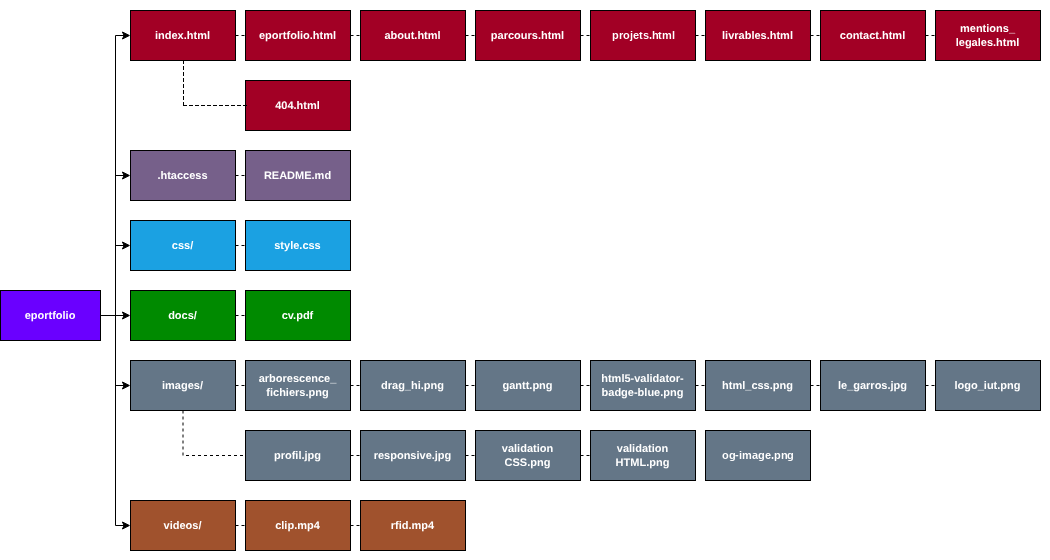
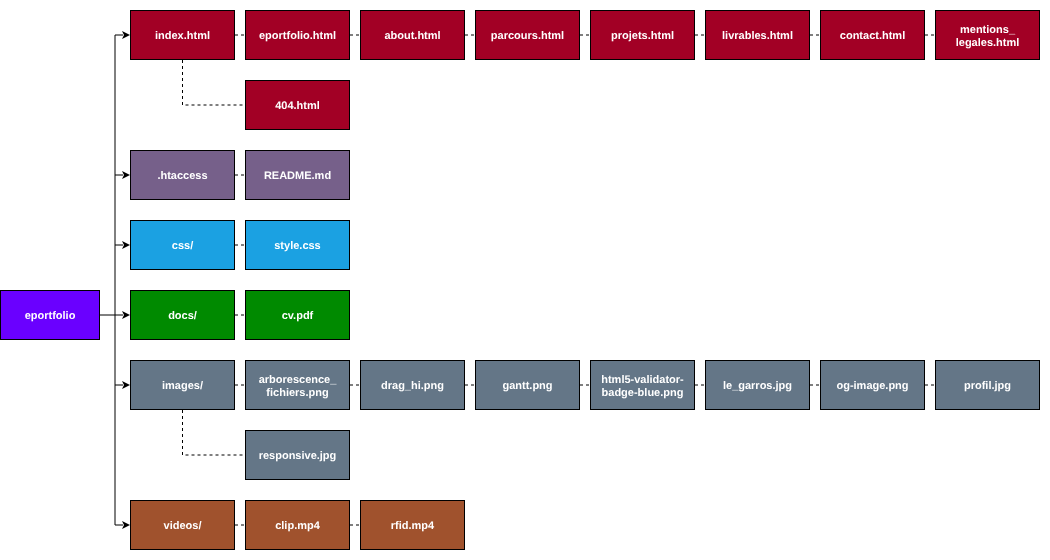
Capture responsive en PNG et retouches de mise en page
- livrables.html : responsive.jpg remplacé par responsive.png (361 x 655)
- Schéma de l'arborescence réexporté sans les images supprimées
- Titres de section sans barre rouge, sous-titres en rouge
- about.html : titre « Who Am I? » ; 404.html : titre simplifié

Claude-Session: https://claude.ai/code/session_011E3gSYhcNdHZCM68mX7pSx

diff --git a/livrables.html b/livrables.html
@@ -97,7 +97,7 @@ ePortfolio/
                         <li><a href="https://www.websiteplanet.com/fr/webtools/responsive-checker/" target="_blank" rel="noopener noreferrer">Website Planet</a></li>
                         <li><a href="https://gtmetrix.com/" target="_blank" rel="noopener noreferrer">GTMetrix</a></li>
                     </ul>
-                    <img src="images/responsive.jpg" alt="Aperçu du test Responsinator" class="image-grande" width="390" height="804" loading="lazy">
+                    <img src="images/responsive.png" alt="Aperçu du test Responsinator" class="image-grande" width="361" height="655" loading="lazy">
                 </section>
             </div>
 

diff --git a/css/style.css b/css/style.css
@@ -175,12 +175,6 @@ nav a.active {
   line-height: 1;
 }
 
-/* Titre centré : la barre gauche de "section h2" est neutralisée */
-.titre-erreur {
-  border-left: none;
-  padding-left: 0;
-}
-
 /* ===== SECTIONS ===== */
 section {
   background: var(--surface);
@@ -191,14 +185,12 @@ section {
 
 section h2 {
   color: var(--primary);
-  border-left: 4px solid var(--primary);
-  padding-left: 0.6rem;
   margin-bottom: 1rem;
   font-size: 1.6rem;
 }
 
 section h3 {
-  color: var(--text);
+  color: var(--primary);
   margin-bottom: 0.6rem;
 }
 

diff --git a/404.html b/404.html
@@ -49,7 +49,7 @@
     <main id="contenu" class="container my-5 flex-grow-1">
         <section class="text-center">
             <p class="code-erreur">404</p>
-            <h2 class="titre-erreur">Cette page n'existe pas (ou plus)</h2>
+            <h2>Cette page n'existe pas (ou plus)</h2>
             <p>Le paquet s'est perdu en route : aucune route vers cette adresse.</p>
             <ul class="liens-rapides justify-content-center">
                 <li><a href="index.html">Accueil</a></li>

diff --git a/about.html b/about.html
@@ -56,7 +56,7 @@
 
             <div class="col-12 col-md-6">
                 <section>
-                    <h2>Qui suis-je ?</h2>
+                    <h2 lang="en">Who Am I?</h2>
                     <img src="images/profil.jpg" alt="Photo de Thibault" class="image-petite" width="560" height="1244">
                     <h3 lang="en">Personal Characteristics</h3>
                     <p lang="en">I am an optimistic person. I like drawing.</p>
